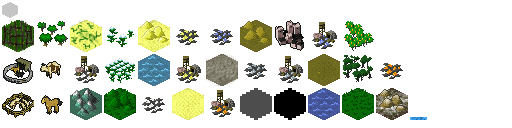
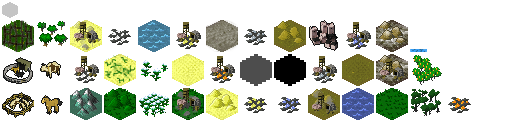
Builder: Construct mines on desert, plains, and tundra

diff --git a/server/src/me/rhin/openciv/server/game/map/tile/TileType.java b/server/src/me/rhin/openciv/server/game/map/tile/TileType.java
@@ -46,7 +46,10 @@ public enum TileType implements Comparable<TileType> {
 
 		@Override
 		public List<TileImprovement> getImprovements() {
-			return Arrays.asList(new TileImprovement(TileType.FARM, 5));
+			ArrayList<TileImprovement> improvements = new ArrayList<>();
+			improvements.add(new MineImprovement(TileType.GRASS_HILL_MINE, 5));
+			improvements.add(new TileImprovement(TileType.FARM, 5));
+			return improvements;
 		}
 	},
 	PLAINS(TileLayer.BASE) {
@@ -78,7 +81,10 @@ public enum TileType implements Comparable<TileType> {
 
 		@Override
 		public List<TileImprovement> getImprovements() {
-			return Arrays.asList(new TileImprovement(TileType.FARM, 5));
+			ArrayList<TileImprovement> improvements = new ArrayList<>();
+			improvements.add(new MineImprovement(TileType.PLAINS_HILL_MINE, 5));
+			improvements.add(new TileImprovement(TileType.FARM, 5));
+			return improvements;
 		}
 	},
 	DESERT(TileLayer.BASE) {
@@ -113,6 +119,13 @@ public enum TileType implements Comparable<TileType> {
 		public int getMovementCost() {
 			return 2;
 		}
+		
+		@Override
+		public List<TileImprovement> getImprovements() {
+			ArrayList<TileImprovement> improvements = new ArrayList<>();
+			improvements.add(new MineImprovement(TileType.DESERT_HILL_MINE, 5));
+			return improvements;
+		}
 	},
 	TUNDRA(TileLayer.BASE) {
 		@Override
@@ -132,6 +145,13 @@ public enum TileType implements Comparable<TileType> {
 		@Override
 		public int getMovementCost() {
 			return 2;
+		}
+		
+		@Override
+		public List<TileImprovement> getImprovements() {
+			ArrayList<TileImprovement> improvements = new ArrayList<>();
+			improvements.add(new MineImprovement(TileType.TUNDRA_HILL_MINE, 5));
+			return improvements;
 		}
 	},
 	OCEAN(TileLayer.BASE, TileProperty.WATER) {
@@ -304,7 +324,40 @@ public enum TileType implements Comparable<TileType> {
 			statLine.addValue(Stat.PRODUCTION_GAIN, 1);
 			return statLine;
 		}
-	},;
+	},
+	GRASS_HILL_MINE(TileLayer.BASE, TileProperty.IMPROVEMENT) {
+		@Override
+		public StatLine getStatLine() {
+			StatLine statLine = new StatLine();
+			statLine.addValue(Stat.PRODUCTION_GAIN, 3);
+			return statLine;
+		}
+	},
+	PLAINS_HILL_MINE(TileLayer.BASE, TileProperty.IMPROVEMENT) {
+		@Override
+		public StatLine getStatLine() {
+			StatLine statLine = new StatLine();
+			statLine.addValue(Stat.PRODUCTION_GAIN, 3);
+			return statLine;
+		}
+	},
+	TUNDRA_HILL_MINE(TileLayer.BASE, TileProperty.IMPROVEMENT) {
+		@Override
+		public StatLine getStatLine() {
+			StatLine statLine = new StatLine();
+			statLine.addValue(Stat.PRODUCTION_GAIN, 3);
+			return statLine;
+		}
+	},
+	DESERT_HILL_MINE(TileLayer.BASE, TileProperty.IMPROVEMENT) {
+		@Override
+		public StatLine getStatLine() {
+			StatLine statLine = new StatLine();
+			statLine.addValue(Stat.PRODUCTION_GAIN, 3);
+			return statLine;
+		}
+	},
+	;
 
 	public enum TileLayer {
 		BASE,

diff --git a/core/src/me/rhin/openciv/game/map/tile/TileType.java b/core/src/me/rhin/openciv/game/map/tile/TileType.java
@@ -27,10 +27,14 @@ public enum TileType {
 	COTTON(TextureEnum.TILE_COTTON, TileLayer.MIDDLE, TileProperty.RESOURCE),
 	GEMS(TextureEnum.TILE_GEMS, TileLayer.MIDDLE, TileProperty.RESOURCE, TileProperty.MINEABLE),
 	FARM(TextureEnum.TILE_FARM, TileLayer.HIGH, TileProperty.IMPROVEMENT),
-	GEMS_IMPROVED(TextureEnum.TILE_GEMS_IMPROVED, TileLayer.MIDDLE, TileProperty.RESOURCE),
-	COTTON_IMPROVED(TextureEnum.TILE_COTTON_IMPROVED, TileLayer.MIDDLE, TileProperty.RESOURCE),
-	IRON_IMPROVED(TextureEnum.TILE_IRON_IMPROVED, TileLayer.MIDDLE, TileProperty.RESOURCE),
-	COPPER_IMPROVED(TextureEnum.TILE_COPPER_IMPROVED, TileLayer.MIDDLE, TileProperty.RESOURCE),
+	GEMS_IMPROVED(TextureEnum.TILE_GEMS_IMPROVED, TileLayer.MIDDLE, TileProperty.IMPROVEMENT),
+	COTTON_IMPROVED(TextureEnum.TILE_COTTON_IMPROVED, TileLayer.MIDDLE, TileProperty.IMPROVEMENT),
+	IRON_IMPROVED(TextureEnum.TILE_IRON_IMPROVED, TileLayer.MIDDLE, TileProperty.IMPROVEMENT),
+	COPPER_IMPROVED(TextureEnum.TILE_COPPER_IMPROVED, TileLayer.MIDDLE, TileProperty.IMPROVEMENT),
+	GRASS_HILL_MINE(TextureEnum.TILE_GRASS_HILL_MINE, TileLayer.BASE, TileProperty.RESOURCE),
+	PLAINS_HILL_MINE(TextureEnum.TILE_PLAINS_HILL_MINE, TileLayer.BASE, TileProperty.RESOURCE),
+	DESERT_HILL_MINE(TextureEnum.TILE_DESERT_HILL_MINE, TileLayer.BASE, TileProperty.RESOURCE),
+	TUNDRA_HILL_MINE(TextureEnum.TILE_TUNDRA_HILL_MINE, TileLayer.BASE, TileProperty.RESOURCE),
 	;
 
 	public enum TileLayer {

diff --git a/core/src/me/rhin/openciv/ui/list/ContainerList.java b/core/src/me/rhin/openciv/ui/list/ContainerList.java
@@ -61,12 +61,14 @@ public class ContainerList extends Group {
 		this.addListener(new ClickListener() {
 			@Override
 			public void enter(InputEvent event, float x, float y, int pointer, Actor fromActor) {
-				thisContainer.getStage().setScrollFocus(thisContainer);
+				if (thisContainer != null)
+					thisContainer.getStage().setScrollFocus(thisContainer);
 			}
 
 			@Override
 			public void exit(InputEvent event, float x, float y, int pointer, Actor fromActor) {
-				thisContainer.getStage().setScrollFocus(null);
+				if (thisContainer != null)
+					thisContainer.getStage().setScrollFocus(null);
 			}
 		});
 	}

diff --git a/core/src/me/rhin/openciv/asset/TextureEnum.java b/core/src/me/rhin/openciv/asset/TextureEnum.java
@@ -39,6 +39,10 @@ public enum TextureEnum {
 	TILE_HORSES_IMPROVED,
 	TILE_IRON_IMPROVED,
 	TILE_COPPER_IMPROVED,
+	TILE_GRASS_HILL_MINE,
+	TILE_PLAINS_HILL_MINE,
+	TILE_DESERT_HILL_MINE,
+	TILE_TUNDRA_HILL_MINE,
 	TILE_CITY,
 	TILE_RIVER,
 	TILE_SELECT,
